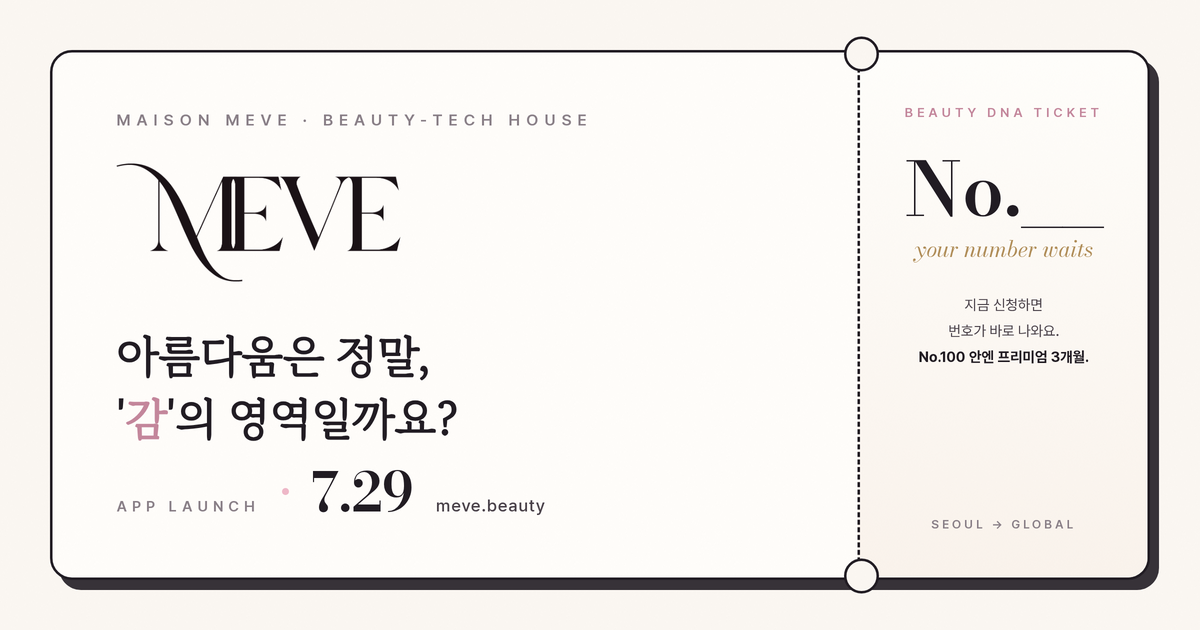
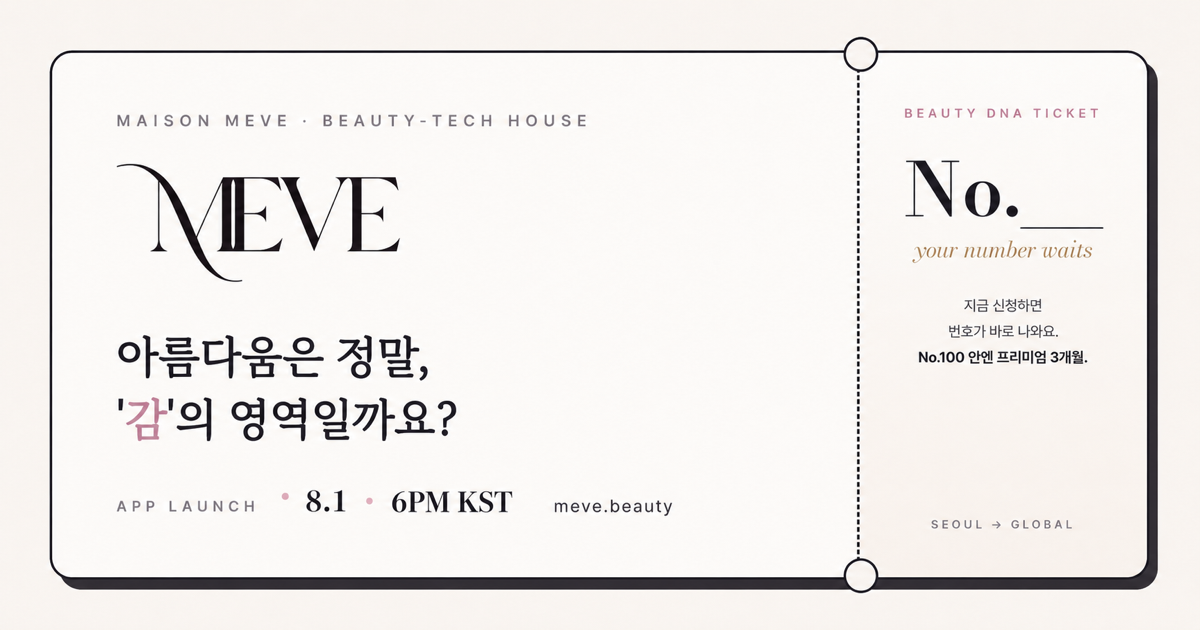
Move launch to Aug 1 at 6pm KST

diff --git a/index.html b/index.html
@@ -4,9 +4,9 @@
 <meta charset="UTF-8">
 <meta name="viewport" content="width=device-width, initial-scale=1.0, viewport-fit=cover">
 <title>MEVE · 데이터로 설계하는 나의 아름다움</title>
-<meta name="description" content="MEVE는 당신의 피부와 얼굴을 데이터로 이해해 감이나 유행이 아닌, 당신에게 맞는 아름다움을 제안합니다. 8월 1일 앱 출시.">
+<meta name="description" content="MEVE는 당신의 피부와 얼굴을 데이터로 이해해 감이나 유행이 아닌, 당신에게 맞는 아름다움을 제안합니다. 8월 1일 오후 6시 앱 출시.">
 <meta property="og:title" content="MEVE · Beauty-Tech House">
-<meta property="og:description" content="아름다움은 정말, 감의 영역일까요? 8월 1일, 입장 줄 순서대로 문이 열려요.">
+<meta property="og:description" content="아름다움은 정말, 감의 영역일까요? 8월 1일 오후 6시, 입장 줄 순서대로 문이 열려요.">
 <meta property="og:url" content="https://meve.beauty">
 <meta property="og:image" content="https://meve.beauty/assets/og.png">
 <meta property="og:image:width" content="1200">
@@ -823,7 +823,7 @@ h1 em{font-style:normal;color:var(--powder)}
     <div class="hero-veil" aria-hidden="true"></div>
     <div class="hero-brand fade d1">
       <div class="mark-m" role="img" aria-label="MEVE"></div>
-      <p class="hero-date"><span>App Launch</span><i aria-hidden="true"></i><b>8.1</b></p>
+      <p class="hero-date"><span>App Launch</span><i aria-hidden="true"></i><b>8.1 · 오후 6시</b></p>
     </div>
     <div class="hero-mid fade d2">
       <h1>내 피부엔 뭐가 <em>맞는지</em>,<br>내 얼굴엔 뭐가 <em>어울리는지</em></h1>
@@ -833,7 +833,7 @@ h1 em{font-style:normal;color:var(--powder)}
     <form class="wl" id="waitlist" novalidate>
       <p class="wl-count" id="wlCount"></p>
       <p class="wl-teaser"><span id="wlTeaser">지금 <b>No.100</b> 안에 들면, 프리미엄 3개월 무료</span></p>
-      <p class="wl-note"><b>8.1</b> 오픈 · 입장 줄 앞 <b>500명</b>부터 입장</p>
+      <p class="wl-note"><b>8.1 오후 6시</b> 오픈 · 입장 줄 앞 <b>500명</b>부터 입장</p>
       <div class="wl-row">
         <input type="email" id="wlEmail" name="email" inputmode="email" autocomplete="email" placeholder="이메일 주소" required>
         <button type="submit" id="wlBtn"><span>내 티켓 번호 받기</span><span class="ar">→</span></button>
@@ -862,7 +862,7 @@ h1 em{font-style:normal;color:var(--powder)}
       <p class="boost">친구가 한 명 올 때마다 입장 줄에서 <b>10칸 앞으로</b> 이동해요.<br>번호는 그대로, 입장만 빨라져요.</p>
       <div class="tiers">
         <p class="t"><b>1명</b> = 입장 10칸 앞으로</p>
-        <p class="t"><b>3명</b> = 8.1 첫 입장 확정</p>
+        <p class="t"><b>3명</b> = 8.1 오후 6시 첫 입장 확정</p>
         <p class="t"><b>10명</b> = 프리미엄 3개월 추가</p>
       </div>
       <div class="done-btns">
@@ -959,7 +959,7 @@ h1 em{font-style:normal;color:var(--powder)}
               <p class="big">+10<small>per friend</small></p>
               <div>
                 <p class="tt">친구 한 명, 입장 줄 열 칸 앞으로</p>
-                <p class="ds">번호는 그대로, 입장 줄만 앞으로 당겨져요. 3명이면 <b>8.1 첫 입장</b> 확정이에요.</p>
+                <p class="ds">번호는 그대로, 입장 줄만 앞으로 당겨져요. 3명이면 <b>8.1 오후 6시 첫 입장</b> 확정이에요.</p>
               </div>
             </div>
           </div>
@@ -1026,7 +1026,7 @@ h1 em{font-style:normal;color:var(--powder)}
   if(SHOW_FOUNDERS) $('founders').classList.add('on');
 
   /* ---- launch countdown: waxing moon ---- */
-  const LAUNCH = new Date('2026-08-01T09:00:00+09:00').getTime();
+  const LAUNCH = new Date('2026-08-01T18:00:00+09:00').getTime();
   const OPENED = new Date('2026-07-18T00:00:00+09:00').getTime();
   const p2 = n => String(n).padStart(2, '0');
   const shade = document.getElementById('moonShade');
@@ -1130,8 +1130,8 @@ h1 em{font-style:normal;color:var(--powder)}
     tb.classList.remove('yes', 'no');
     tb.classList.add('on', en <= 500 ? 'yes' : 'no');
     tb.textContent = en <= 500
-      ? '\u2726 8.1 \uCCAB \uC785\uC7A5 500\uBA85 \uC548\uC774\uC5D0\uC694 \u00B7 \uC790\uB9AC\uAC00 \uD655\uC815\uB410\uC5B4\uC694'
-      : '8.1 \uCCAB \uC785\uC7A5\uC740 \uC904 \uC55E 500\uBA85 \u00B7 \uCE5C\uAD6C \uCD08\uB300\uB85C \uC904\uC744 \uB2F9\uACA8\uC694';
+      ? '\u2726 8.1 \uC624\uD6C4 6\uC2DC \uCCAB \uC785\uC7A5 500\uBA85 \uC548\uC774\uC5D0\uC694 \u00B7 \uC790\uB9AC\uAC00 \uD655\uC815\uB410\uC5B4\uC694'
+      : '8.1 \uC624\uD6C4 6\uC2DC \uCCAB \uC785\uC7A5\uC740 \uC904 \uC55E 500\uBA85 \u00B7 \uCE5C\uAD6C \uCD08\uB300\uB85C \uC904\uC744 \uB2F9\uACA8\uC694';
   };
   /* returning visitor: refresh from the server (invites may have moved them up) */
   const refreshStatus = () => {
@@ -1192,12 +1192,12 @@ h1 em{font-style:normal;color:var(--powder)}
         $('wlTeaser').innerHTML = '<b>First 100</b> · 첫 입장 <b>500</b> 마감 · 지금은 <b>2차 웨이브</b>예요';
         $('perk100tt').innerHTML = '첫 입장 500, 마감됐어요<span class="tag">Closed</span>';
         $('perkNum').textContent = '500'; $('perkUnit').textContent = 'closed';
-        $('perk100ds').innerHTML = '8.1 첫 입장 <b>500자리</b>가 다 찼어요. 지금 신청하면 <b>2차 웨이브</b>로, 첫 입장 뒤 순차 입장돼요. 친구 초대로 줄을 당기면 더 빨리 들어와요.';
+        $('perk100ds').innerHTML = '8.1 오후 6시 첫 입장 <b>500자리</b>가 다 찼어요. 지금 신청하면 <b>2차 웨이브</b>로, 첫 입장 뒤 순차 입장돼요. 친구 초대로 줄을 당기면 더 빨리 들어와요.';
       } else if(typeof n === 'number' && n >= 100){
-        $('wlTeaser').innerHTML = '<b>First 100</b> 마감 · 8.1 첫 입장 <b>500</b>자리는 아직 열려 있어요';
+        $('wlTeaser').innerHTML = '<b>First 100</b> 마감 · 8.1 오후 6시 첫 입장 <b>500</b>자리는 아직 열려 있어요';
         $('perk100tt').innerHTML = 'First 100, 마감됐어요<span class="tag">Closed</span>';
         $('perkNum').textContent = '500'; $('perkUnit').textContent = 'limited';
-        $('perk100ds').innerHTML = '프리미엄 3개월 무료와 <b>평생 고정</b> 얼리버드가는 첫 100명에게 돌아갔어요. 다음 문은 <b>8.1 첫 입장 500</b>이에요.';
+        $('perk100ds').innerHTML = '프리미엄 3개월 무료와 <b>평생 고정</b> 얼리버드가는 첫 100명에게 돌아갔어요. 다음 문은 <b>8.1 오후 6시 첫 입장 500</b>이에요.';
       }
   }
   function refreshCount(){
@@ -1288,7 +1288,7 @@ h1 em{font-style:normal;color:var(--powder)}
       x.fillStyle = '#C7A76C';
       x.font = '600 26px "Pretendard Variable", sans-serif';
       x.textAlign = 'center'; x.letterSpacing = '8px';
-      x.fillText('APP LAUNCH · 8.1', W/2, 300 + h + 46);
+      x.fillText('APP LAUNCH · 8.1 · 6PM KST', W/2, 300 + h + 46);
       x.letterSpacing = '0px';
     }catch(e){}
     /* the ticket */
@@ -1329,10 +1329,10 @@ h1 em{font-style:normal;color:var(--powder)}
     x.font = '700 34px "Pretendard Variable", sans-serif';
     if(isFinite(n) && n <= 500){
       x.fillStyle = '#8C6B2F';
-      x.fillText('\u2726 8.1 \uCCAB \uC785\uC7A5 500\uBA85 \uC548 \u2014 \uC790\uB9AC \uD655\uC815', 0, 188);
+      x.fillText('\u2726 8.1 18:00 \uCCAB 500\uBA85 \u2014 \uC790\uB9AC \uD655\uC815', 0, 188);
     }else{
       x.fillStyle = '#C25B7C';
-      x.fillText('8.1 \uCCAB \uC785\uC7A5\uC740 \uC904 \uC55E 500\uBA85 \u2014 \uCD08\uB300\uB85C \uC904\uC744 \uB2F9\uACA8\uC694', 0, 188);
+      x.fillText('8.1 18:00 \uCCAB 500\uBA85 \u2014 \uCD08\uB300\uB85C \uC904\uC744 \uB2F9\uACA8\uC694', 0, 188);
     }
     /* tear line + punches */
     const ty = th/2 - 128;
@@ -1381,7 +1381,7 @@ h1 em{font-style:normal;color:var(--powder)}
   /* ---- share ---- */
   $('shareBtn').addEventListener('click', async () => {
     const url = myLink();
-    const data = {title:'MEVE', text:'아름다움은 정말, 감의 영역일까요? 8.1 MEVE', url};
+    const data = {title:'MEVE', text:'아름다움은 정말, 감의 영역일까요? 8.1 오후 6시 MEVE', url};
     if(navigator.share){
       try{ await navigator.share(data); return; }catch(e){}
     }

diff --git a/ig/index.html b/ig/index.html
@@ -125,7 +125,7 @@ p{font-size:12px;color:rgba(246,239,233,.5);margin:0}
     const x = document.getElementById('c3').getContext('2d');
     ground(x);
     wm(x, 150, 250);
-    caps(x, 'APP LAUNCH · 8.1', 360, GOLD, 26, 8);
+    caps(x, 'APP LAUNCH · 8.1 · 6PM KST', 360, GOLD, 26, 8);
     /* ticket */
     const tw = 880, th = 620;
     x.save();
